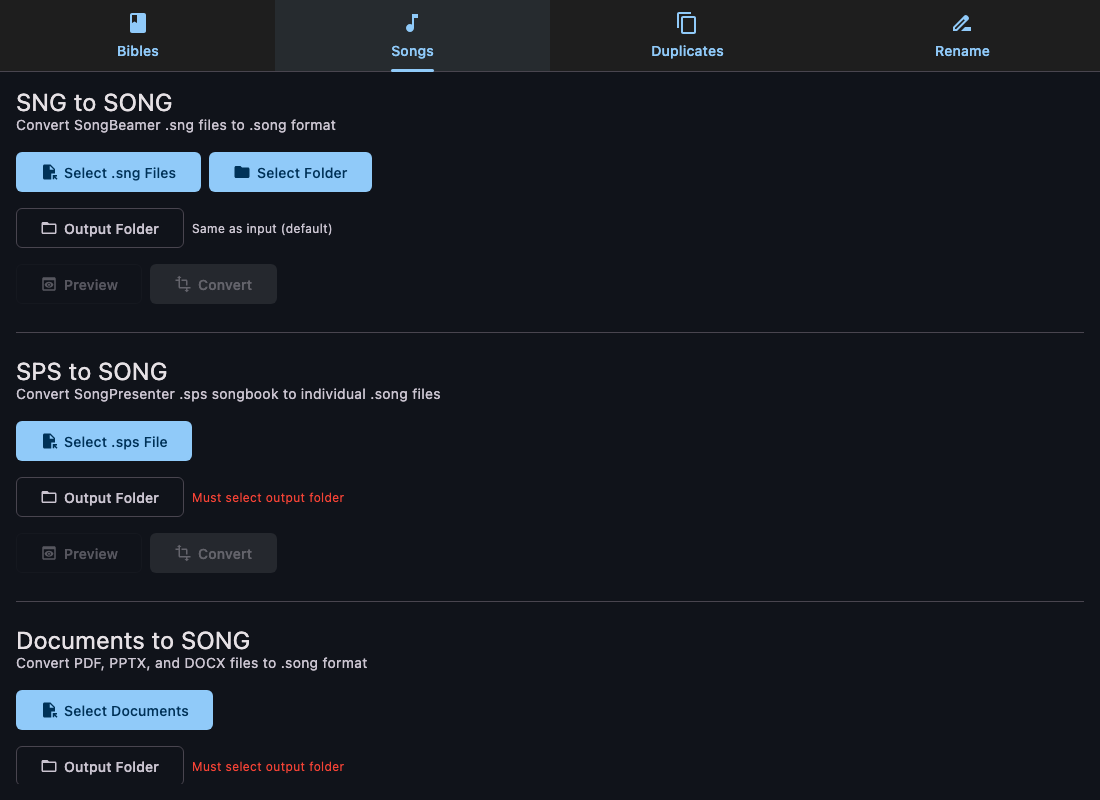
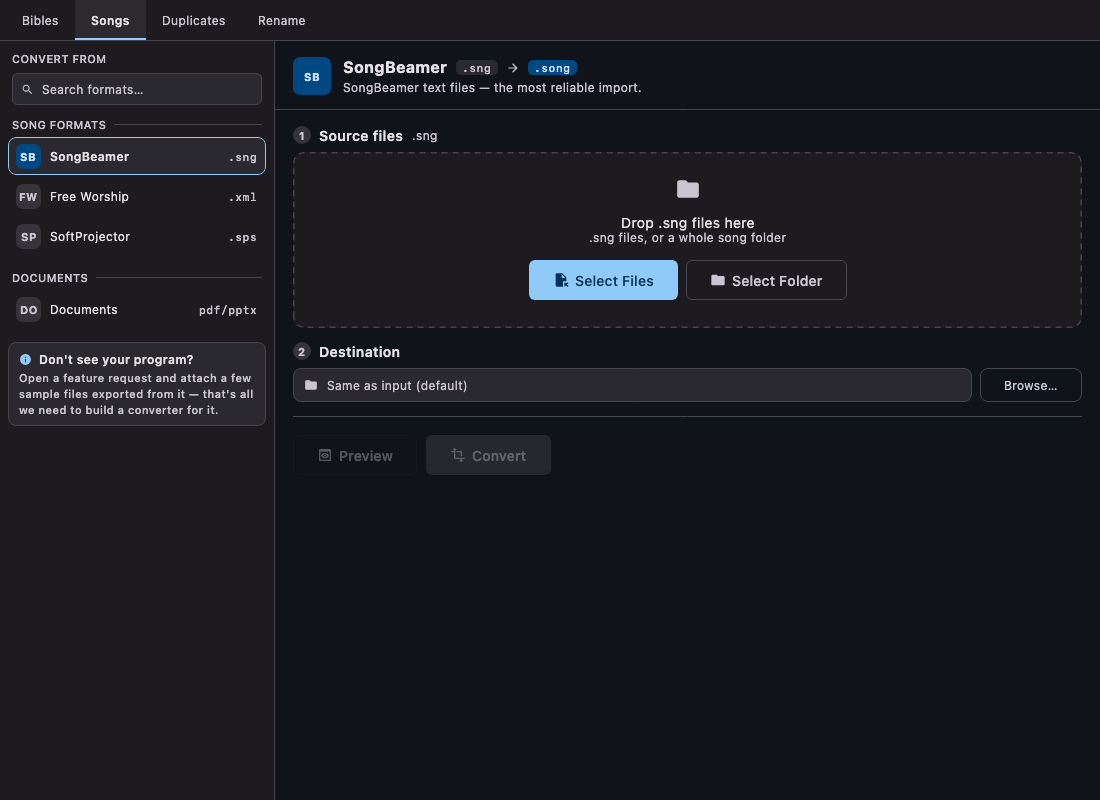
Update converter screenshots & screenshot tests
Add and refresh previewApp converter screenshots and refactor the screenshot test. Several new/updated PNGs were added under composeApp/screenshots/previewApp. AppPreviewConverterScreenshotTest.kt was rewritten to accept a ComposeUiTest drive lambda, added ComposeUiTest helpers (tab/format), use performTextInput, and expanded tests to cover songs formats, search states, duplicates, rename and rename-options. This lets the test drive UI interactions before capturing the updated images.

diff --git a/composeApp/src/jvmTest/kotlin/org/churchpresenter/app/churchpresenter/screenshot/AppPreviewConverterScreenshotTest.kt b/composeApp/src/jvmTest/kotlin/org/churchpresenter/app/churchpresenter/screenshot/AppPreviewConverterScreenshotTest.kt
@@ -6,8 +6,10 @@ import androidx.compose.foundation.layout.Box
 import androidx.compose.foundation.layout.size
 import androidx.compose.ui.Modifier
 import androidx.compose.ui.geometry.Size
+import androidx.compose.ui.test.ComposeUiTest
 import androidx.compose.ui.test.onNodeWithText
 import androidx.compose.ui.test.performClick
+import androidx.compose.ui.test.performTextInput
 import androidx.compose.ui.test.runSkikoComposeUiTest
 import androidx.compose.ui.unit.Density
 import androidx.compose.ui.unit.dp
@@ -19,11 +21,16 @@ import kotlin.test.Test
 
 /**
  * The bundled format converter, reached from the Help menu. It ships its own colour scheme rather
- * than following the app theme, so each tab is one image instead of a light/dark pair.
+ * than following the app theme, so each state is one image instead of a light/dark pair.
+ *
+ * The Songs tab is shot several times over because its whole layout is driven by which format is
+ * selected in the rail — the destination step alone is a plain "same as input" line for SongBeamer
+ * and a required-folder warning for SoftProjector, and only the rail tells you which you are
+ * looking at.
  */
 class AppPreviewConverterScreenshotTest {
 
-    private fun converter(name: String, tab: String?) {
+    private fun converter(name: String, drive: ComposeUiTest.() -> Unit = {}) {
         TestSingletons.latchSkikoHostOs()
         TestSingletons.latchToTestHome()
         runSkikoComposeUiTest(size = Size(1100f, 800f), density = Density(1f)) {
@@ -33,23 +40,72 @@ class AppPreviewConverterScreenshotTest {
                 }
             }
             waitForIdle()
-            tab?.let {
-                onNodeWithText(it).performClick()
-                waitForIdle()
-            }
+            drive()
+            waitForIdle()
             captureTo(File("$SCREENSHOT_ROOT/previewApp/converter_$name.png"))
         }
     }
 
-    @Test
-    fun bibles() = converter("bibles", null)
+    private fun ComposeUiTest.tab(title: String) {
+        onNodeWithText(title).performClick()
+        waitForIdle()
+    }
+
+    private fun ComposeUiTest.format(name: String) {
+        onNodeWithText(name).performClick()
+        waitForIdle()
+    }
 
     @Test
-    fun songs() = converter("songs", "Songs")
+    fun bibles() = converter("bibles")
+
+    /** The rail's default selection: one .song per input, so the destination may be left alone. */
+    @Test
+    fun songs() = converter("songs") { tab("Songs") }
 
     @Test
-    fun duplicates() = converter("duplicates", "Duplicates")
+    fun `songs free worship`() = converter("songs_freeworship") {
+        tab("Songs")
+        format("Free Worship")
+    }
+
+    /** A song book fans out into a folder, so this state carries the output-folder warning. */
+    @Test
+    fun `songs soft projector`() = converter("songs_softprojector") {
+        tab("Songs")
+        format("SoftProjector")
+    }
 
     @Test
-    fun rename() = converter("rename", "Rename")
+    fun `songs documents`() = converter("songs_documents") {
+        tab("Songs")
+        format("Documents")
+    }
+
+    /** Searching narrows the rail; the note about requesting a format stays put beneath it. */
+    @Test
+    fun `songs search filtered`() = converter("songs_search") {
+        tab("Songs")
+        onNodeWithText("Search formats…").performTextInput("sp")
+    }
+
+    @Test
+    fun `songs search with no match`() = converter("songs_search_empty") {
+        tab("Songs")
+        onNodeWithText("Search formats…").performTextInput("propresenter")
+    }
+
+    @Test
+    fun duplicates() = converter("duplicates") { tab("Duplicates") }
+
+    @Test
+    fun rename() = converter("rename") { tab("Rename") }
+
+    /** The example line is computed from the options, so it has to be shot with them changed. */
+    @Test
+    fun `rename with options changed`() = converter("rename_options") {
+        tab("Rename")
+        onNodeWithText("Rename to the first line of verse 1").performClick()
+        onNodeWithText("Title Case").performClick()
+    }
 }
